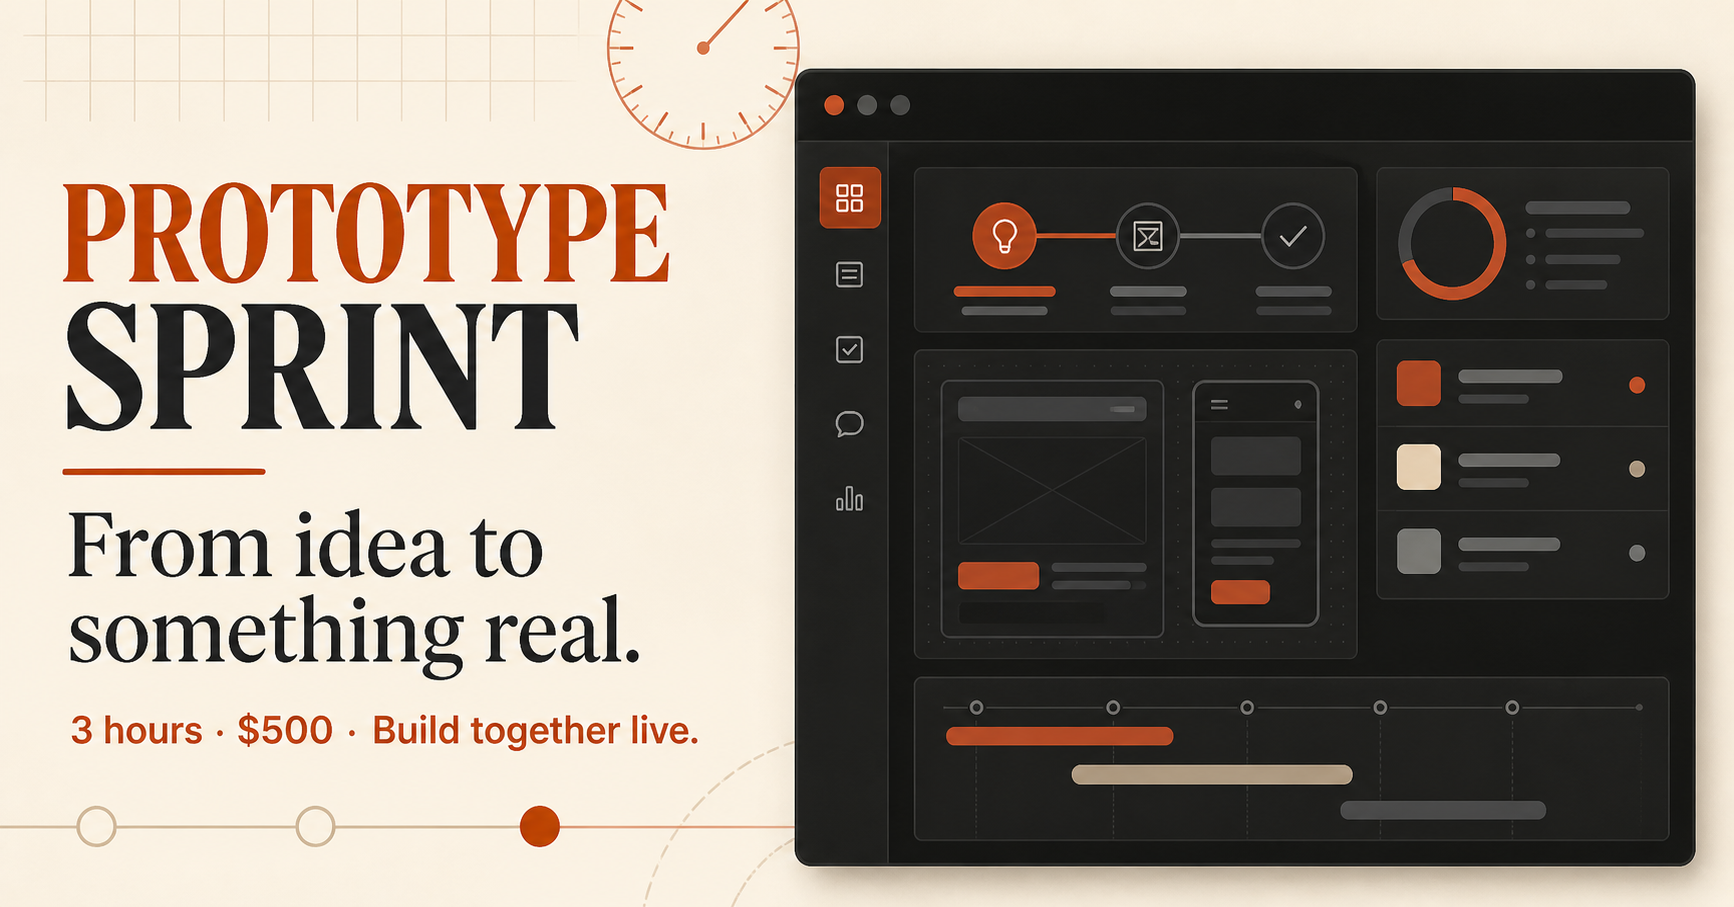
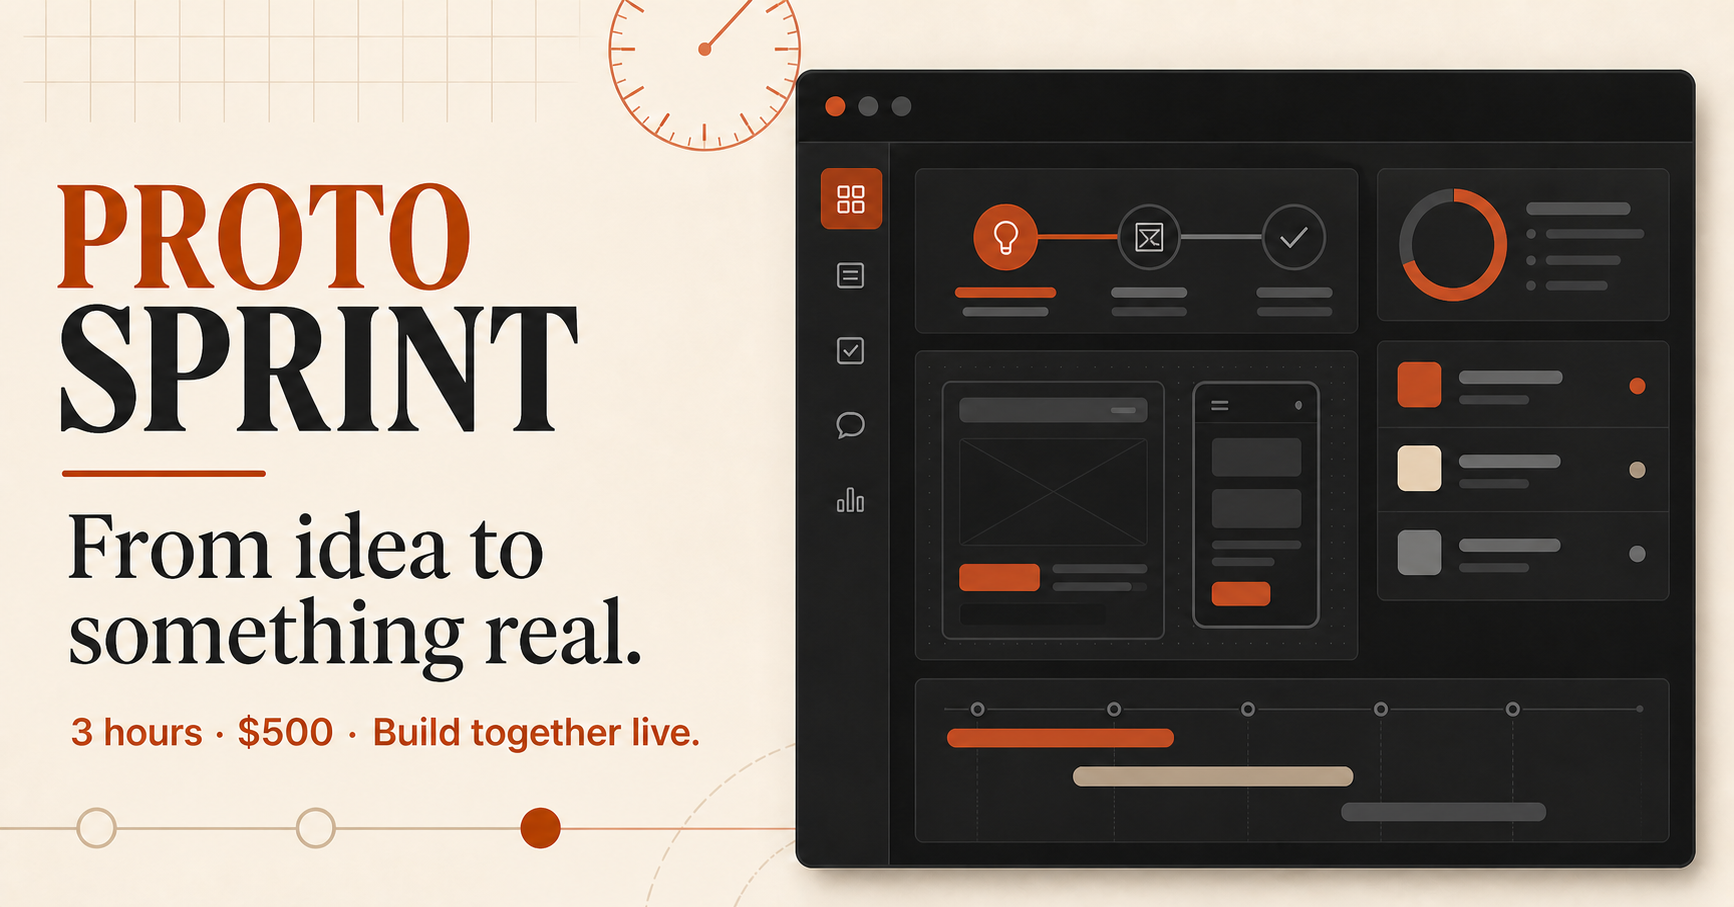
Rename brand to Proto Sprint

diff --git a/app/page.tsx b/app/page.tsx
@@ -78,7 +78,7 @@ const menuGroups = [
 
 const prices = [
   {
-    name: "Prototype Sprint",
+    name: "Proto Sprint",
     time: "3 hours",
     price: "$500",
     note: "For new ideas",
@@ -135,7 +135,7 @@ const faqs = [
   {
     question: "Do I need to take the free fit call first?",
     answer:
-      "No. The free 15-minute Sprint Fit Call is the recommended starting point when you want to confirm scope, readiness, or whether a sprint is the right format. If your idea is already focused and you are ready to move, you can request the $500 Prototype Sprint directly. Either path starts with a short intake so the conversation is useful.",
+      "No. The free 15-minute Sprint Fit Call is the recommended starting point when you want to confirm scope, readiness, or whether a sprint is the right format. If your idea is already focused and you are ready to move, you can request the $500 Proto Sprint directly. Either path starts with a short intake so the conversation is useful.",
   },
   {
     question: "Do I need to know how to code?",
@@ -150,7 +150,7 @@ const faqs = [
   {
     question: "Is this production-ready software?",
     answer:
-      "Not automatically. Prototype Sprints are designed for validation, demos, early users, and product learning. Security, privacy, performance, accessibility, monitoring, and other production requirements should be evaluated and scoped separately.",
+      "Not automatically. Proto Sprints are designed for validation, demos, early users, and product learning. Security, privacy, performance, accessibility, monitoring, and other production requirements should be evaluated and scoped separately.",
   },
 ];
 
@@ -208,10 +208,10 @@ export default function Home() {
   return (
     <>
       <header className="site-header">
-        <a className="brand" href="#top" aria-label="Prototype Sprint home">
+        <a className="brand" href="#top" aria-label="Proto Sprint home">
           <span className="brand-badge">PS</span>
           <span className="brand-copy">
-            <strong>Prototype Sprint</strong>
+            <strong>Proto Sprint</strong>
             <small>Ideas into real products.</small>
           </span>
         </a>
@@ -287,7 +287,7 @@ export default function Home() {
         </section>
 
         <section className="intro-section section-shell">
-          <div className="section-kicker">What is a Prototype Sprint?</div>
+          <div className="section-kicker">What is a Proto Sprint?</div>
           <div className="intro-grid">
             <h2>A working session with the work happening <em>in the room.</em></h2>
             <div>
@@ -509,7 +509,7 @@ export default function Home() {
               data-netlify-honeypot="bot-field"
             >
               <input type="hidden" name="form-name" value="prototype-sprint-inquiry" />
-              <input type="hidden" name="subject" value="New Prototype Sprint inquiry" />
+              <input type="hidden" name="subject" value="New Proto Sprint inquiry" />
               <p className="honeypot"><label>Do not fill this out: <input name="bot-field" /></label></p>
               <div className="form-heading"><span>START HERE</span><strong>Free fit call or direct sprint?</strong></div>
               <fieldset className="start-path-options">
@@ -519,9 +519,9 @@ export default function Home() {
                     <input id="start-path-fit" type="radio" name="start-path" value="Free 15-minute Sprint Fit Call" defaultChecked required />
                     <span><b>RECOMMENDED</b><strong>Free 15-minute Sprint Fit Call</strong><small>Confirm scope, readiness, and whether the sprint is a good fit.</small></span>
                   </label>
-                  <label htmlFor="start-path-sprint" aria-label="Direct $500 Prototype Sprint request">
-                    <input id="start-path-sprint" type="radio" name="start-path" value="Direct $500 Prototype Sprint request" required />
-                    <span><b>READY TO BUILD</b><strong>Request the $500 Prototype Sprint</strong><small>Use this path when the idea and first-sprint goal are already focused.</small></span>
+                  <label htmlFor="start-path-sprint" aria-label="Direct $500 Proto Sprint request">
+                    <input id="start-path-sprint" type="radio" name="start-path" value="Direct $500 Proto Sprint request" required />
+                    <span><b>READY TO BUILD</b><strong>Request the $500 Proto Sprint</strong><small>Use this path when the idea and first-sprint goal are already focused.</small></span>
                   </label>
                 </div>
               </fieldset>
@@ -532,8 +532,8 @@ export default function Home() {
               </div>
               <label>Email<input type="email" name="email" autoComplete="email" required /></label>
               <label>Which session fits best?
-                <select name="offering" defaultValue="Prototype Sprint — 3 hours / $500" required>
-                  <option>Prototype Sprint — 3 hours / $500</option>
+                <select name="offering" defaultValue="Proto Sprint — 3 hours / $500" required>
+                  <option>Proto Sprint — 3 hours / $500</option>
                   <option>Iteration Session — 2 hours / $300</option>
                   <option>Iteration Sprint — 3 hours / $450</option>
                   <option>Brand or launch-focused sprint</option>
@@ -565,15 +565,15 @@ export default function Home() {
         <div className="footer-top">
           <a className="brand footer-brand" href="#top">
             <span className="brand-badge">PS</span>
-            <span className="brand-copy"><strong>Prototype Sprint</strong><small>Ideas into real products.</small></span>
+            <span className="brand-copy"><strong>Proto Sprint</strong><small>Ideas into real products.</small></span>
           </a>
           <p>Modern tools. Founder-owned. Built for speed.</p>
           <div className="tool-list" aria-label="Common prototype tools"><span>Netlify</span><span>Supabase</span><span>GitHub</span><span>Google Drive</span><span>Stripe</span></div>
         </div>
         <div className="footer-bottom">
-          <p>Prototype Sprint deliverables are not automatically production-ready software.</p>
+          <p>Proto Sprint deliverables are not automatically production-ready software.</p>
           <div><a href="#how-it-works">How it works</a><a href="#pricing">Pricing</a><a href="/checklists">Checklists</a><a href="#faq">FAQ</a></div>
-          <span>Prototype Sprint · 2026</span>
+          <span>Proto Sprint · 2026</span>
         </div>
       </footer>
     </>

diff --git a/public/netlify-form.html b/public/netlify-form.html
@@ -1,17 +1,17 @@
 <!doctype html>
 <html lang="en">
-  <head><meta charset="utf-8"><meta name="robots" content="noindex, nofollow"><title>Prototype Sprint form blueprint</title></head>
+  <head><meta charset="utf-8"><meta name="robots" content="noindex, nofollow"><title>Proto Sprint form blueprint</title></head>
   <body hidden>
     <form hidden name="prototype-sprint-inquiry" action="/thanks/" method="POST" data-netlify="true" data-netlify-honeypot="bot-field">
       <input type="hidden" name="form-name" value="prototype-sprint-inquiry">
-      <input type="hidden" name="subject" value="New Prototype Sprint inquiry">
+      <input type="hidden" name="subject" value="New Proto Sprint inquiry">
       <input name="bot-field">
       <input type="radio" name="start-path" value="Free 15-minute Sprint Fit Call">
-      <input type="radio" name="start-path" value="Direct $500 Prototype Sprint request">
+      <input type="radio" name="start-path" value="Direct $500 Proto Sprint request">
       <input name="first-name">
       <input name="last-name">
       <input type="email" name="email">
-      <select name="offering"><option>Prototype Sprint — 3 hours / $500</option></select>
+      <select name="offering"><option>Proto Sprint — 3 hours / $500</option></select>
       <textarea name="project-summary"></textarea>
       <textarea name="sprint-win"></textarea>
       <input type="checkbox" name="priorities[]" value="Prototype">

diff --git a/app/layout.tsx b/app/layout.tsx
@@ -16,7 +16,7 @@ export function generateMetadata(): Metadata {
 
   return {
     metadataBase: new URL(origin),
-    title: "Prototype Sprint — From idea to something real",
+    title: "Proto Sprint — From idea to something real",
     description:
       "A focused three-hour working session to clarify, build, and move your product idea toward something you can use, test, share, or demonstrate.",
     alternates: {
@@ -27,14 +27,14 @@ export function generateMetadata(): Metadata {
       apple: "/favicon.png",
     },
     openGraph: {
-      title: "Prototype Sprint — From idea to something real",
+      title: "Proto Sprint — From idea to something real",
       description: "3 hours. $500. Build together live.",
       type: "website",
-      images: [{ url: socialImage, width: 1734, height: 907, alt: "Prototype Sprint — From idea to something real." }],
+      images: [{ url: socialImage, width: 1734, height: 907, alt: "Proto Sprint — From idea to something real." }],
     },
     twitter: {
       card: "summary_large_image",
-      title: "Prototype Sprint — From idea to something real",
+      title: "Proto Sprint — From idea to something real",
       description: "3 hours. $500. Build together live.",
       images: [socialImage],
     },

diff --git a/app/thanks/page.tsx b/app/thanks/page.tsx
@@ -2,17 +2,17 @@ import type { Metadata } from "next";
 import Link from "next/link";
 
 export const metadata: Metadata = {
-  title: "Sprint request received — Prototype Sprint",
-  description: "Your Prototype Sprint request has been received.",
+  title: "Sprint request received — Proto Sprint",
+  description: "Your Proto Sprint request has been received.",
 };
 
 export default function ThanksPage() {
   return (
     <main className="thanks-page">
       <div className="thanks-card">
-        <Link className="brand" href="/" aria-label="Prototype Sprint home">
+        <Link className="brand" href="/" aria-label="Proto Sprint home">
           <span className="brand-badge">PS</span>
-          <span className="brand-copy"><strong>Prototype Sprint</strong><small>Ideas into real products.</small></span>
+          <span className="brand-copy"><strong>Proto Sprint</strong><small>Ideas into real products.</small></span>
         </Link>
         <span className="thanks-number">01</span>
         <p className="section-kicker">Sprint request received</p>

diff --git a/app/checklists/page.tsx b/app/checklists/page.tsx
@@ -3,7 +3,7 @@ import Link from "next/link";
 import { ChecklistHub } from "./ChecklistHub";
 
 export const metadata: Metadata = {
-  title: "Pre-Sprint Checklists — Prototype Sprint",
+  title: "Pre-Sprint Checklists — Proto Sprint",
   description:
     "Interactive readiness checklists for prototype, landing page, brand, and social launch sprints.",
 };
@@ -12,10 +12,10 @@ export default function ChecklistsPage() {
   return (
     <main className="checklist-page">
       <header className="checklist-header section-shell">
-        <Link className="brand" href="/" aria-label="Prototype Sprint home">
+        <Link className="brand" href="/" aria-label="Proto Sprint home">
           <span className="brand-badge">PS</span>
           <span className="brand-copy">
-            <strong>Prototype Sprint</strong>
+            <strong>Proto Sprint</strong>
             <small>Ideas into real products.</small>
           </span>
         </Link>

diff --git a/app/BookingPathSync.tsx b/app/BookingPathSync.tsx
@@ -9,7 +9,7 @@ export function BookingPathSync() {
 
   useEffect(() => {
     const value = requestedStart === "sprint"
-      ? "Direct $500 Prototype Sprint request"
+      ? "Direct $500 Proto Sprint request"
       : "Free 15-minute Sprint Fit Call";
     const input = document.querySelector<HTMLInputElement>(
       `input[name="start-path"][value="${value}"]`,

diff --git a/app/checklists/ChecklistHub.tsx b/app/checklists/ChecklistHub.tsx
@@ -20,7 +20,7 @@ const offerings: Offering[] = [
   {
     id: "prototype",
     eyebrow: "PRODUCT & PROTOTYPE",
-    title: "Prototype Sprint",
+    title: "Proto Sprint",
     summary: "Best for an MVP, proof of concept, core user flow, internal tool, or demo-ready product experience.",
     sections: [
       {
